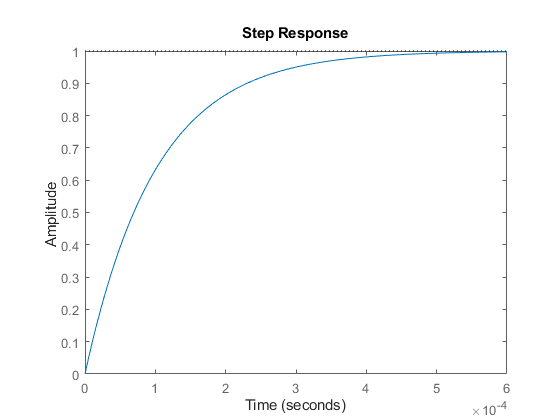
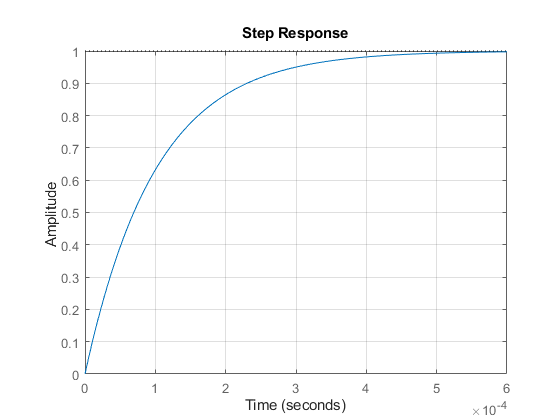
circuitos

diff --git a/Pratica 6/html/pratica6.html b/Pratica 6/html/pratica6.html
@@ -9,7 +9,7 @@ To make changes, update the MATLAB code and republish this document.
 <title>Laborat&oacute;rio de Sistemas Din&acirc;icos</title>
 <meta name="generator" content="MATLAB 24.1">
 <link rel="schema.DC" href="http://purl.org/dc/elements/1.1/">
-<meta name="DC.date" content="2024-07-08">
+<meta name="DC.date" content="2024-08-04">
 <meta name="DC.source" content="pratica6.m">
 <style type="text/css">
 html,body,div,span,applet,object,iframe,h1,h2,h3,h4,h5,h6,p,blockquote,pre,a,abbr,acronym,address,big,cite,code,del,dfn,em,font,img,ins,kbd,q,s,samp,small,strike,strong,tt,var,b,u,i,center,dl,dt,dd,ol,ul,li,fieldset,form,label,legend,table,caption,tbody,tfoot,thead,tr,th,td{margin:0;padding:0;border:0;outline:0;font-size:100%;vertical-align:baseline;background:transparent}body{line-height:1}ol,ul{list-style:none}blockquote,q{quotes:none}blockquote:before,blockquote:after,q:before,q:after{content:'';content:none}:focus{outine:0}ins{text-decoration:none}del{text-decoration:line-through}table{border-collapse:collapse;border-spacing:0}
@@ -95,6 +95,24 @@ table td { padding:7px 5px; text-align:left; vertical-align:top; border:1px soli
 <li>
 <a href="#4">Ex01 C</a>
 </li>
+<li>
+<a href="#5">Ex01 D</a>
+</li>
+<li>
+<a href="#6">Ex01 E</a>
+</li>
+<li>
+<a href="#7">Ex01 F</a>
+</li>
+<li>
+<a href="#8">Ex01 G</a>
+</li>
+<li>
+<a href="#9">Ex01 H</a>
+</li>
+<li>
+<a href="#10">Ex01 H</a>
+</li>
 </ul>
 </div>
 <h2 id="1">Limpar workspcade</h2>
@@ -103,14 +121,29 @@ clear;
 clc;
 </pre>
 <h2 id="2">Ex01 A</h2>
-<pre class="codeinput">R = 100;
-C = 1*10^-6;
+<pre class="codeinput">syms <span class="string">R</span> <span class="string">C</span> <span class="string">S</span>;
+G1_S = 1/(R*C*S + 1);
 
+[num, den] = numden(G1_S);
+
+fprintf(<span class="string">"     %s    \n"</span> + <span class="keyword">...</span>
+        <span class="string">"-----------\n"</span> + <span class="keyword">...</span>
+            <span class="string">"%s\n"</span>   ,num, den);
+</pre>
+<pre class="codeoutput">     1    
+-----------
+C*R*S + 1
+</pre>
+<h2 id="3">Ex01 B</h2>
+<pre class="codeinput">r = 100;
+c = 1*10^-6;
 s = tf(<span class="string">'s'</span>);
-G1_S = 1/(R*C*s + 1);
 
+G1_S = 1/(r*c*s + 1);
 
 printsys(G1_S.num{1}, G1_S.den{1});
+step(G1_S);
+grid(<span class="string">'on'</span>);
 </pre>
 <pre class="codeoutput"> 
 num/den = 
@@ -119,17 +152,63 @@ num/den =
    ------------
    0.0001 s + 1
 </pre>
-<h2 id="3">Ex01 B</h2>
-<pre class="codeinput">step(G1_S);
-hold <span class="string">on</span>;
-</pre>
 <img vspace="5" hspace="5" src="pratica6_01.png" alt=""> <h2 id="4">Ex01 C</h2>
-<pre class="codeinput">R = 2*R;
-G1_S = 1/(R*C*s + 1);
-step(G1_S);
+<pre class="codeinput">step(G1_S.num{1}, G1_S.den{1});
+hold <span class="string">on</span>;
+
+r = 2*r;
+G1_S = 1/(r*c*s + 1);
+
+step(G1_S.num{1}, G1_S.den{1});
+
+grid(<span class="string">'on'</span>);
 legend(<span class="string">'R=100'</span>, <span class="string">'R=200'</span>);
+hold <span class="string">off</span>;
 </pre>
-<img vspace="5" hspace="5" src="pratica6_02.png" alt=""> <p class="footer">
+<img vspace="5" hspace="5" src="pratica6_02.png" alt=""> <h2 id="5">Ex01 D</h2>
+<pre class="codeinput">syms <span class="string">R</span> <span class="string">C</span> <span class="string">S</span>;
+G2_S = C*S/(R*C*S + 1);
+
+[num, den] = numden(G2_S);
+num = simplify(num);
+den = simplify(den);
+
+fprintf(<span class="string">"    %s    \n"</span> + <span class="keyword">...</span>
+        <span class="string">"-----------\n"</span> + <span class="keyword">...</span>
+           <span class="string">" %s\n"</span>   ,num, den);
+</pre>
+<pre class="codeoutput">    C*S    
+-----------
+ C*R*S + 1
+</pre>
+<h2 id="6">Ex01 E</h2>
+<pre class="codeinput">r = 100;
+c = 1*10^-6;
+s = tf(<span class="string">'s'</span>);
+
+G2_S = c*s/(r*c*s + 1);
+
+step(G2_S.num{1}, G2_S.den{1});
+grid(<span class="string">'on'</span>);
+</pre>
+<img vspace="5" hspace="5" src="pratica6_03.png" alt=""> <h2 id="7">Ex01 F</h2>
+<h2 id="8">Ex01 G</h2>
+<h2 id="9">Ex01 H</h2>
+<pre class="codeinput">R = 100;
+C = 1*10^-6;
+Ve = 1;
+
+A = -1/R*C;
+B = 1/R*C;
+C = [1; -1/R];
+D = [0; 1/R];
+
+sistema = ss(A, B, C, D);
+</pre>
+<h2 id="10">Ex01 H</h2>
+<pre class="codeinput">step(sistema);
+</pre>
+<img vspace="5" hspace="5" src="pratica6_04.png" alt=""> <p class="footer">
 <br>
 <a href="https://www.mathworks.com/products/matlab/">Published with MATLAB&reg; R2024a</a>
 <br>
@@ -146,28 +225,98 @@ legend(<span class="string">'R=100'</span>, <span class="string">'R=200'</span>)
 close all;
 clear;
 clc;
+
 %% Ex01 A
 
-R = 100;
-C = 1*10^-6;
+syms R C S;
+G1_S = 1/(R*C*S + 1);
 
-s = tf('s');
-G1_S = 1/(R*C*s + 1);
+[num, den] = numden(G1_S);
 
-
-printsys(G1_S.num{1}, G1_S.den{1});
+fprintf("     %s    \n" + ...
+        "REPLACE_WITH_DASH_DASHREPLACE_WITH_DASH_DASHREPLACE_WITH_DASH_DASHREPLACE_WITH_DASH_DASHREPLACE_WITH_DASH_DASH-\n" + ...
+            "%s\n"   ,num, den);
 
 %% Ex01 B
 
+r = 100;
+c = 1*10^-6;
+s = tf('s');
+
+G1_S = 1/(r*c*s + 1);
+
+printsys(G1_S.num{1}, G1_S.den{1});
 step(G1_S);
-hold on;
+grid('on');
+
 
 %% Ex01 C
 
-R = 2*R;
-G1_S = 1/(R*C*s + 1);
-step(G1_S);
+step(G1_S.num{1}, G1_S.den{1});
+hold on;
+
+r = 2*r;
+G1_S = 1/(r*c*s + 1);
+
+step(G1_S.num{1}, G1_S.den{1});
+
+grid('on');
 legend('R=100', 'R=200');
+hold off;
+
+
+%% Ex01 D
+
+syms R C S;
+G2_S = C*S/(R*C*S + 1);
+
+[num, den] = numden(G2_S);
+num = simplify(num);
+den = simplify(den);
+
+fprintf("    %s    \n" + ...
+        "REPLACE_WITH_DASH_DASHREPLACE_WITH_DASH_DASHREPLACE_WITH_DASH_DASHREPLACE_WITH_DASH_DASHREPLACE_WITH_DASH_DASH-\n" + ...
+           " %s\n"   ,num, den);
+
+%% Ex01 E
+
+r = 100;
+c = 1*10^-6;
+s = tf('s');
+
+G2_S = c*s/(r*c*s + 1);
+
+step(G2_S.num{1}, G2_S.den{1});
+grid('on');
+
+%% Ex01 F
+
+
+%% Ex01 G
+
+
+%% Ex01 H
+
+R = 100;
+C = 1*10^-6;
+Ve = 1;
+
+A = -1/R*C;
+B = 1/R*C;
+C = [1; -1/R];
+D = [0; 1/R];
+
+sistema = ss(A, B, C, D);
+
+%% Ex01 H
+
+step(sistema);
+
+
+
+
+
+
 ##### SOURCE END #####
 -->
 </body>
